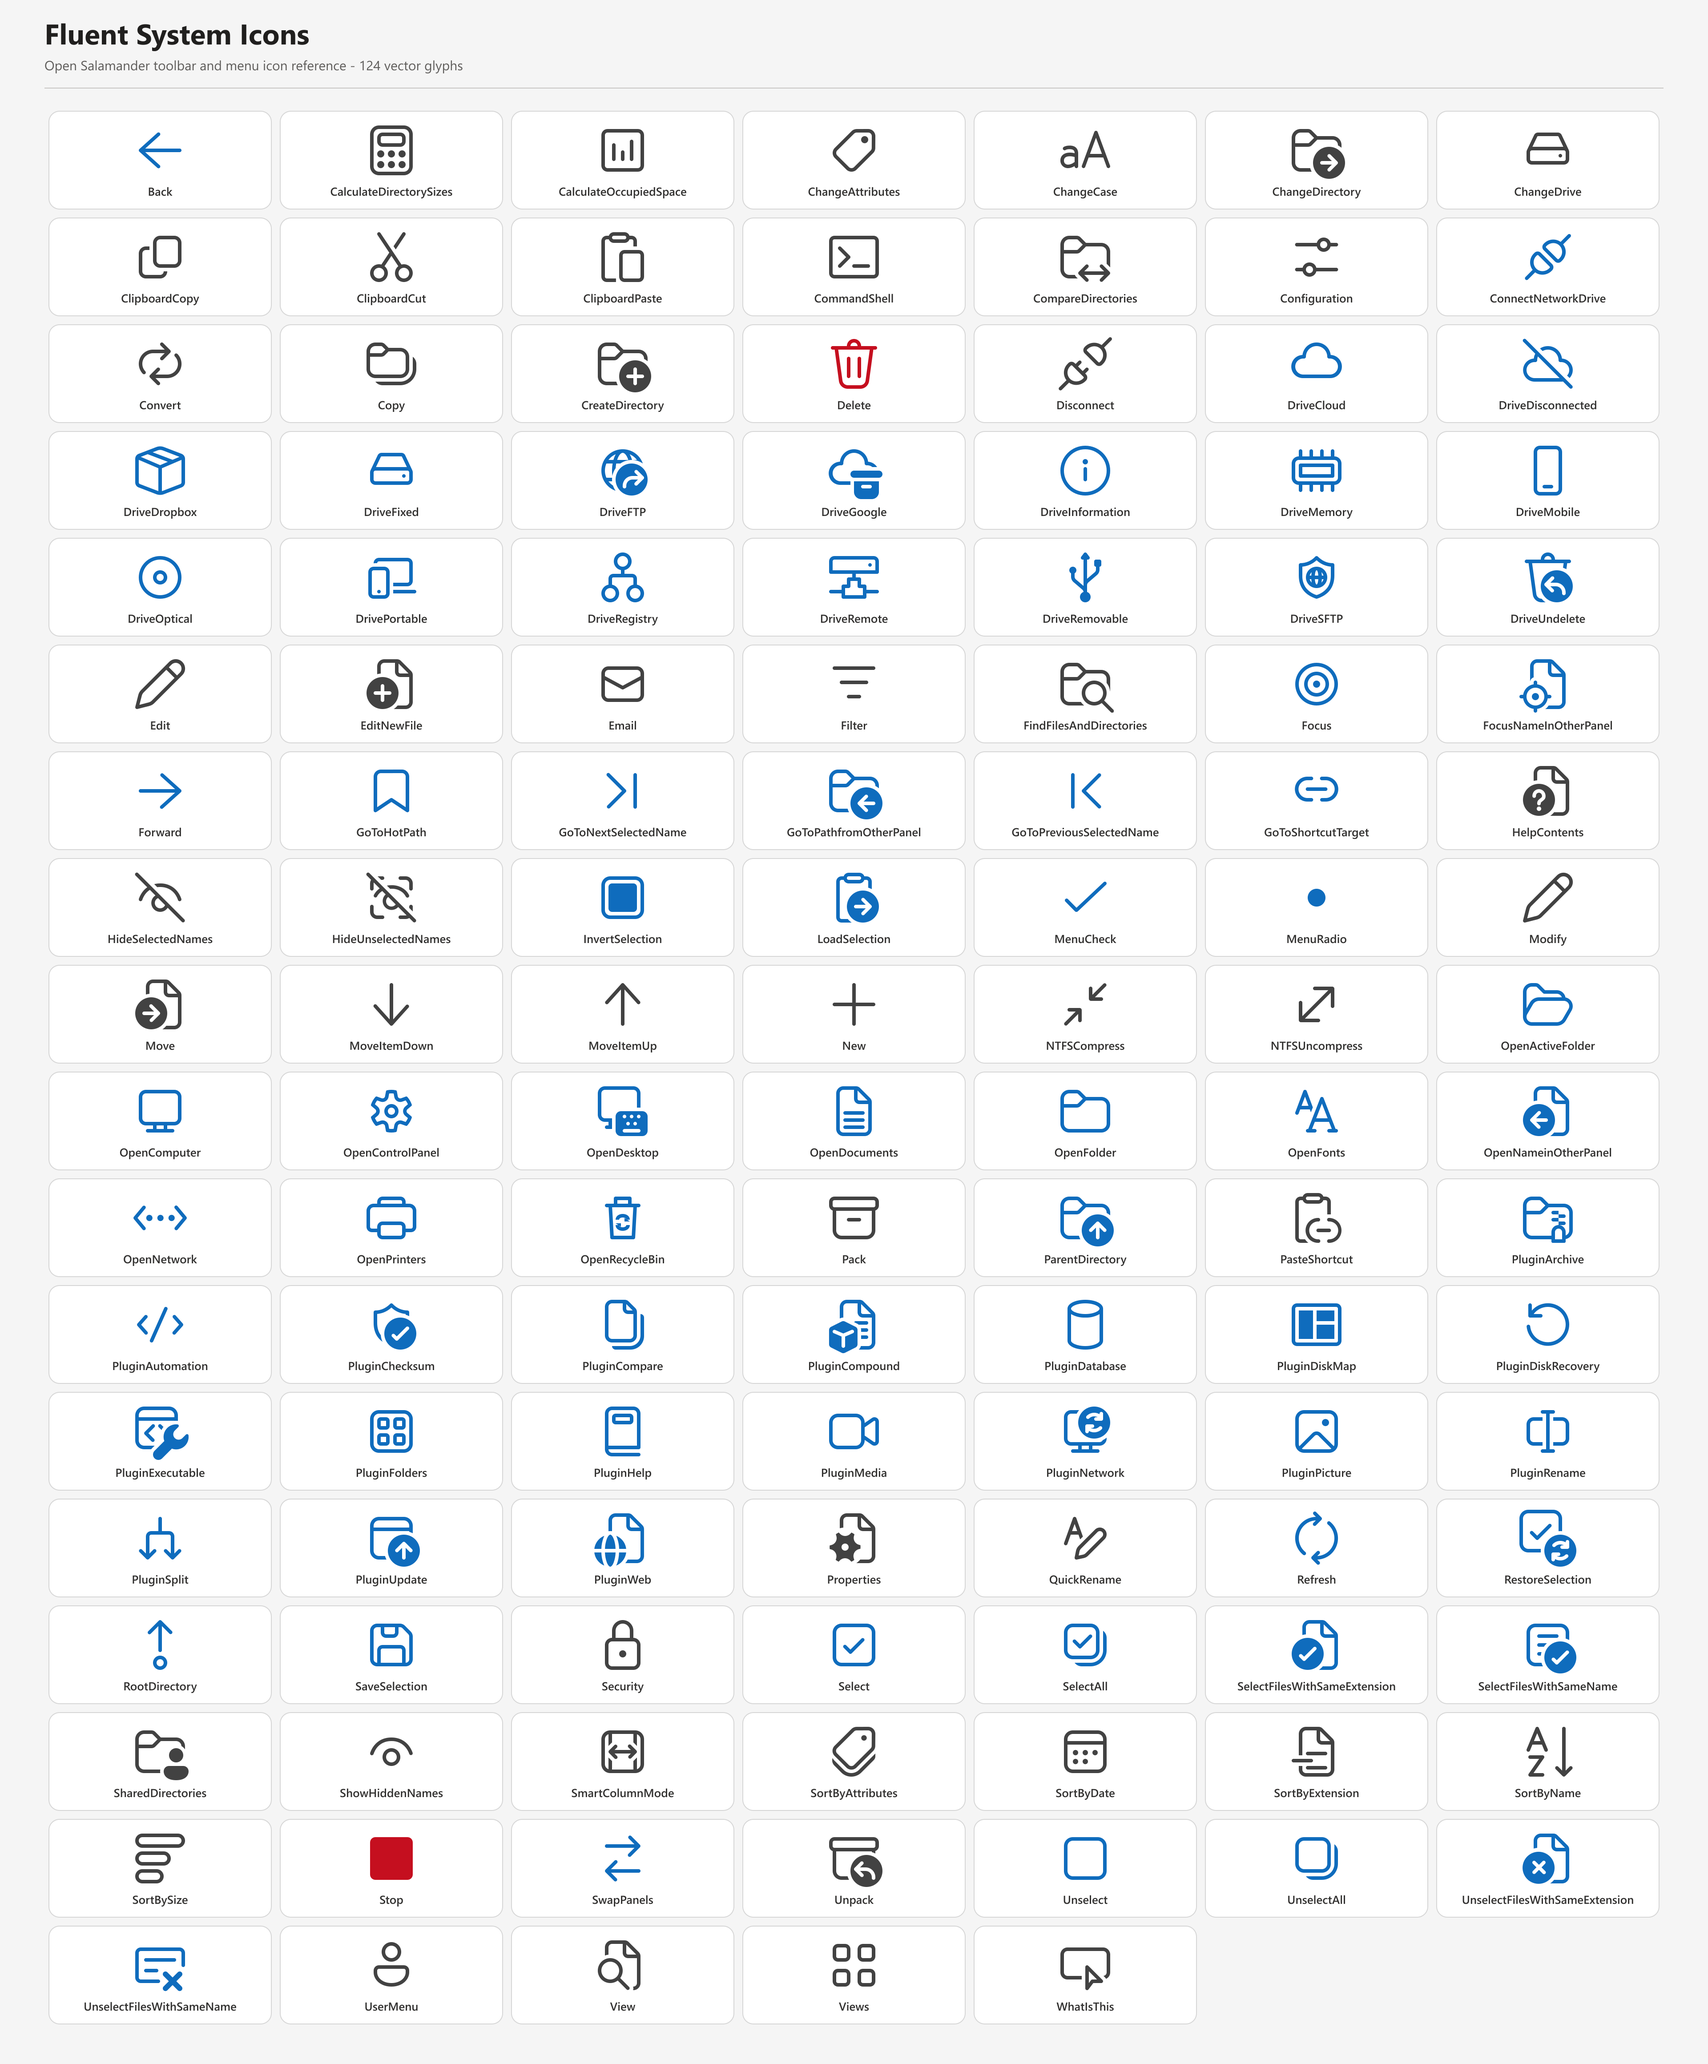
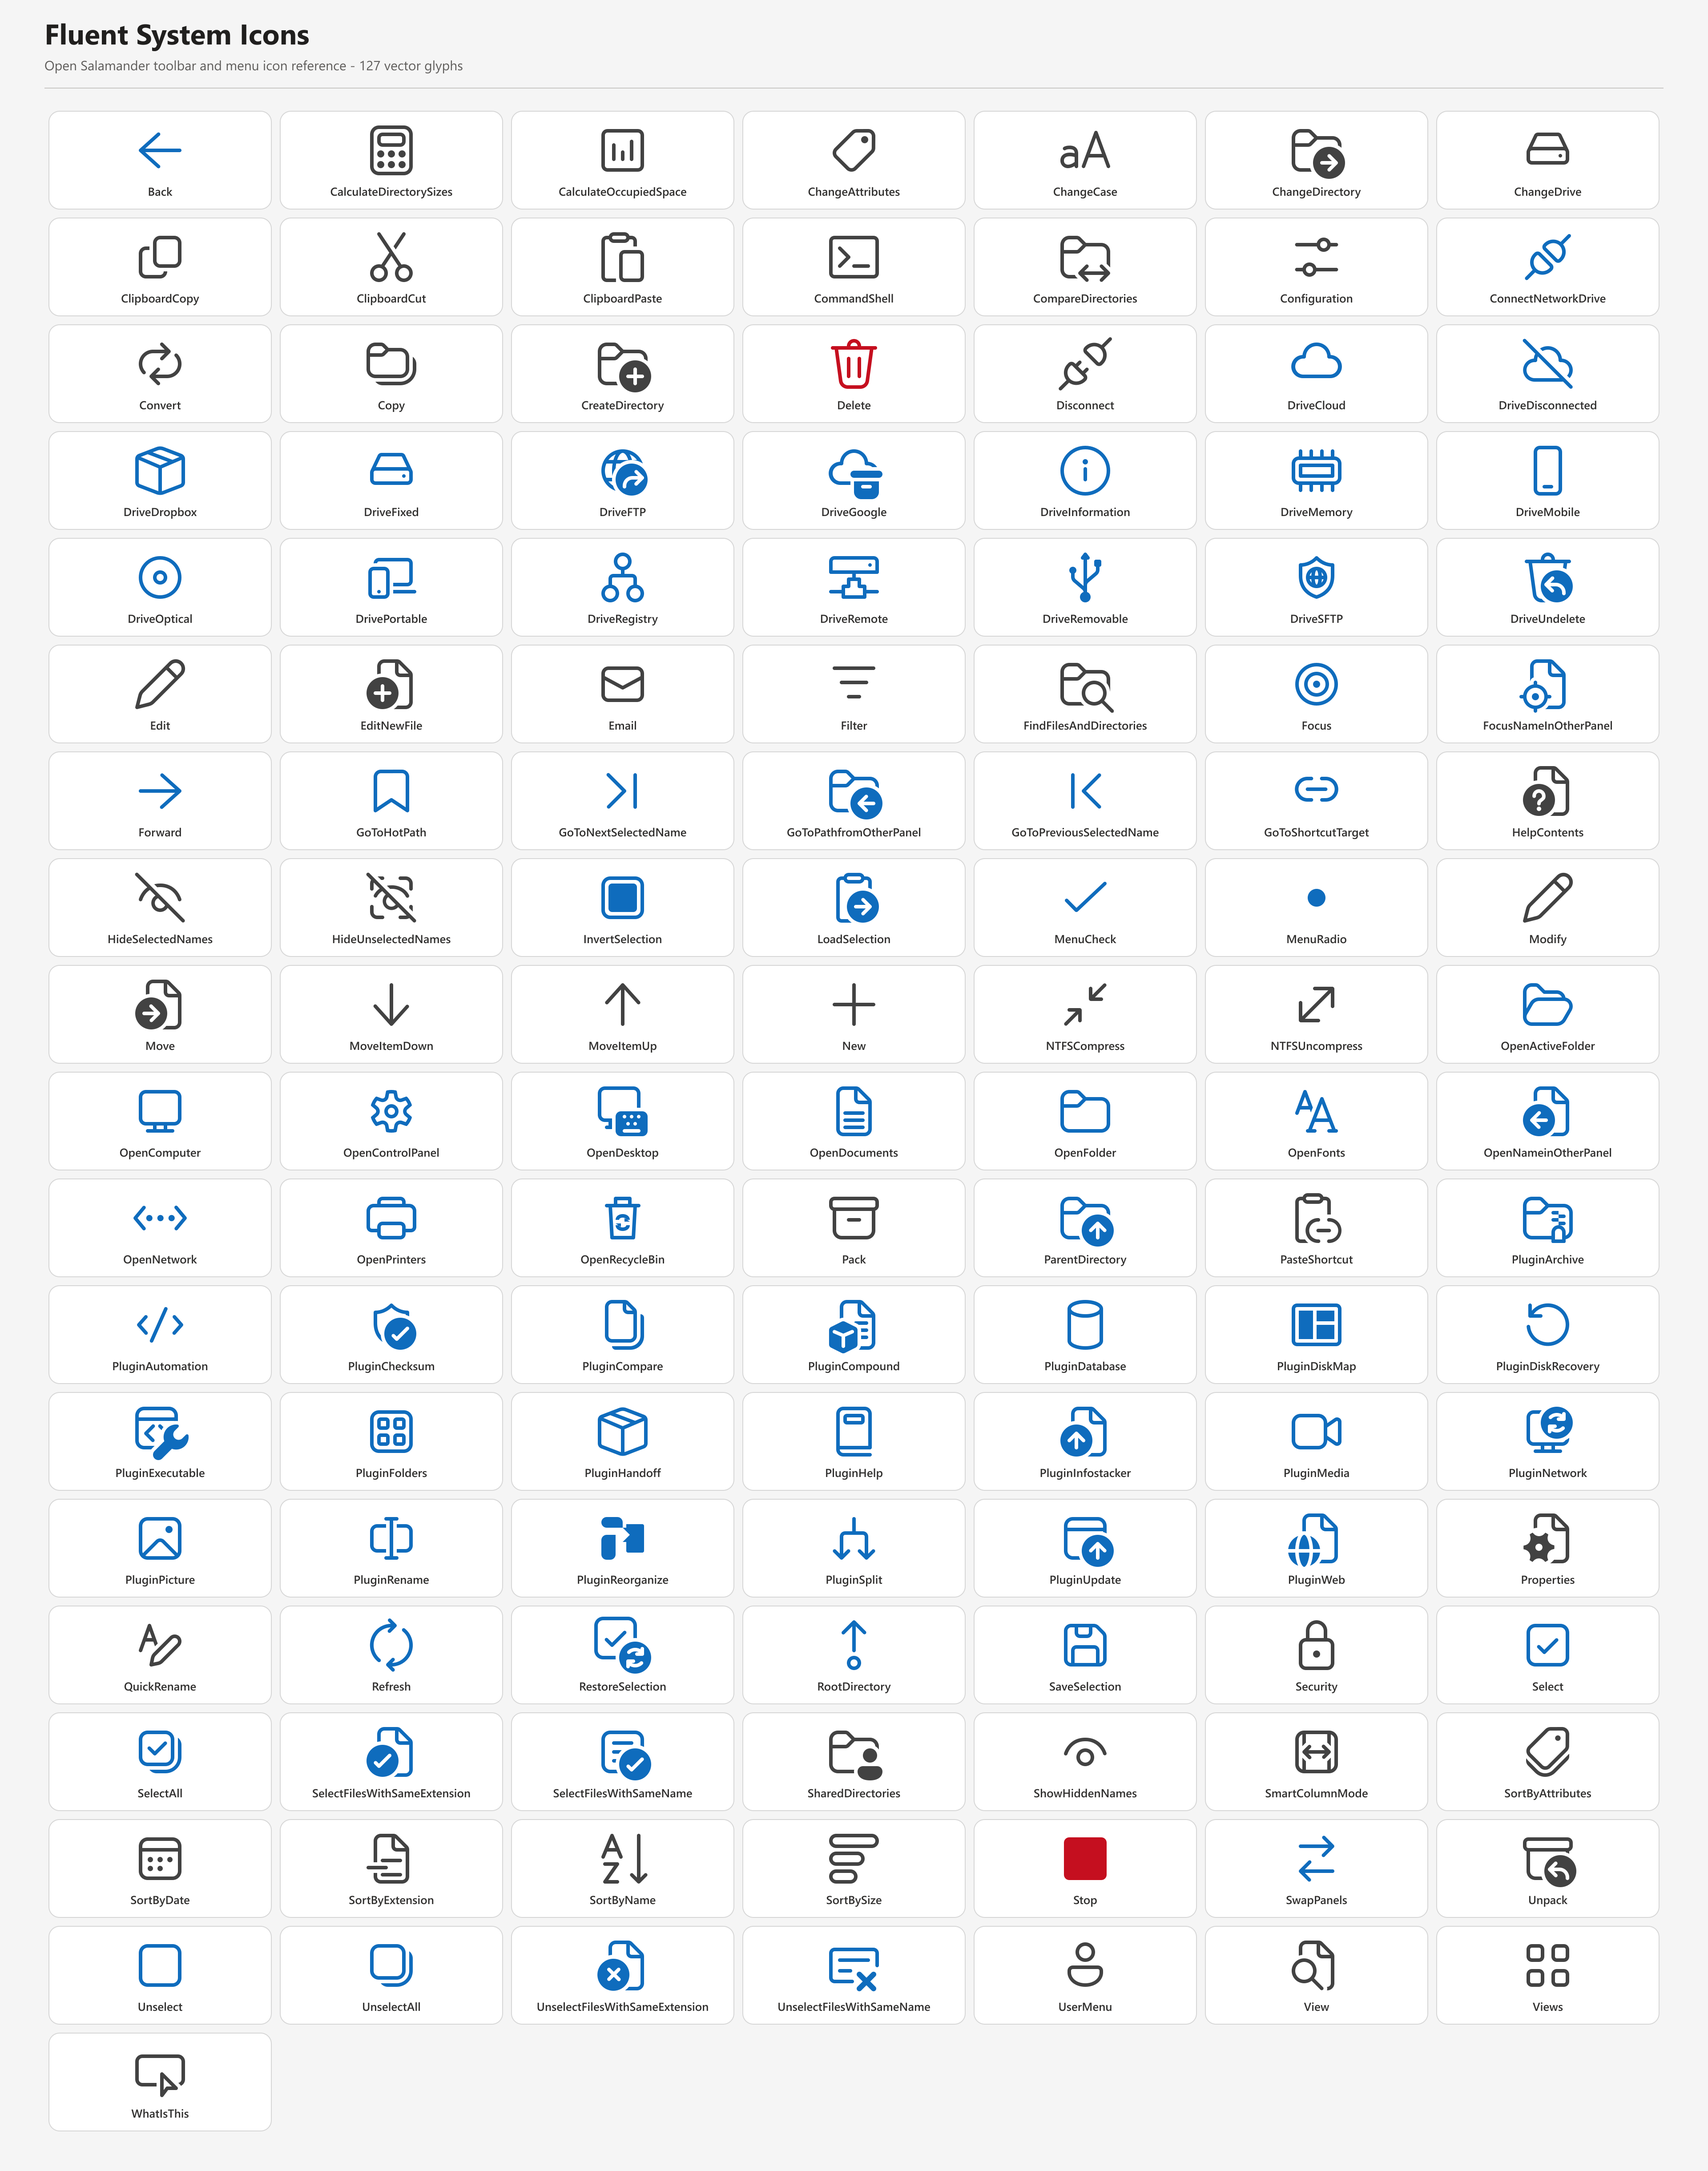
Restore Infostacker release gate coverage
The runtime toolbar included PluginInfostacker, but its reference SVG
and catalog entry were missing. This broke the reference completeness
contract and prevented the release gate from reaching packaging.

Add the missing reference from the existing Fluent document-upload
artwork and regenerate the catalog for all 127 toolbar icon families.
Preserve the production 16 px design grid, Fluent blue palette, and
Microsoft MIT attribution to match the rest of the interface.

Fix a second release-gate failure exposed by the complete test run:
a cancelled upload can reset the loopback connection before the test
server writes its held response. Accept only the expected reset or
abort during that response write, leaving request parsing and other
I/O failures visible.

Add a real TCP regression that resets a held upload connection and
requires the next upload to succeed. This verifies that cancellation
neither faults fixture teardown nor stops the server accepting work.

Validate with VS 2026 and toolset v145 using scripts/runtests.ps1 with
-ReleasePipeline, -BaseCommit HEAD^, -PlatformToolset v145,
-MaxBuildNodes 4, and -BuildNumber 0:

- All 29 release-parity checks pass; the x64 installer is produced.
- NUnit reports 234 passed, 0 failed, and 8 documented capability skips.
- Skips cover five ZIP cases, one help search, and two volume cases.
- Native rendering passes for 127 families and 3,048 size/DPI cases.
- The six focused icon and TCP reset checks pass.
- git diff --check passes.

diff --git a/tests/FileManager.UiTests/LoopbackInfostackerServerTests.cs b/tests/FileManager.UiTests/LoopbackInfostackerServerTests.cs
@@ -1,0 +1,54 @@
+using System.Net.Sockets;
+using System.Text;
+using FileManager.UiTests.Infrastructure;
+using NUnit.Framework;
+
+namespace FileManager.UiTests;
+
+public sealed class LoopbackInfostackerServerTests
+{
+    [Test]
+    public async Task Cancelled_held_response_does_not_stop_the_next_upload()
+    {
+        // Force the cancellation race with a TCP reset, then require another real upload to succeed.
+        using var timeout = new CancellationTokenSource(TimeSpan.FromSeconds(5));
+        using var server = new LoopbackInfostackerServer { HoldResponse = true };
+        var endpoint = new Uri(server.Url);
+        const string boundary = "infostacker-cancellation-probe";
+        var body = Encoding.ASCII.GetBytes($"--{boundary}\r\nContent-Disposition: form-data; name=\"markdown\"\r\n\r\nprobe\r\n--{boundary}--\r\n");
+        var headers = Encoding.ASCII.GetBytes($"POST /sharing/uploadmarkdownwithfiles HTTP/1.1\r\nHost: 127.0.0.1\r\nContent-Type: multipart/form-data; boundary={boundary}\r\nContent-Length: {body.Length}\r\nConnection: close\r\n\r\n");
+
+        using (var cancelled = await Upload())
+        {
+            await server.Received.Task.WaitAsync(timeout.Token);
+            cancelled.Client.LingerState = new LingerOption(true, 0);
+        }
+        server.Release.TrySetResult();
+
+        using var next = await Upload();
+        using var reader = new StreamReader(next.GetStream(), Encoding.UTF8);
+        var response = await reader.ReadToEndAsync(timeout.Token);
+        Assert.Multiple(() =>
+        {
+            Assert.That(response, Does.StartWith("HTTP/1.1 200"));
+            Assert.That(response, Does.EndWith(server.Response));
+            Assert.That(server.Requests, Has.Count.EqualTo(2));
+        });
+
+        async Task<TcpClient> Upload()
+        {
+            var client = new TcpClient();
+            try
+            {
+                await client.ConnectAsync(endpoint.Host, endpoint.Port, timeout.Token);
+                await client.GetStream().WriteAsync(headers.Concat(body).ToArray(), timeout.Token);
+                return client;
+            }
+            catch
+            {
+                client.Dispose();
+                throw;
+            }
+        }
+    }
+}

diff --git a/tests/FileManager.UiTests/Infrastructure/LoopbackInfostackerServer.cs b/tests/FileManager.UiTests/Infrastructure/LoopbackInfostackerServer.cs
@@ -68,8 +68,14 @@ internal sealed class LoopbackInfostackerServer : IDisposable
                 var response = Encoding.UTF8.GetBytes(Response);
                 var responseHeaders = Encoding.ASCII.GetBytes($"HTTP/1.1 {Status} Fixture\r\nContent-Type: application/json\r\nContent-Length: {response.Length}\r\nConnection: close\r\n\r\n");
                 // Fragment JSON to exercise the production response accumulation path.
-                await stream.WriteAsync(responseHeaders, stop.Token);
-                foreach (var chunk in response.Chunk(3)) await stream.WriteAsync(chunk, stop.Token);
+                try
+                {
+                    await stream.WriteAsync(responseHeaders, stop.Token);
+                    foreach (var chunk in response.Chunk(3)) await stream.WriteAsync(chunk, stop.Token);
+                }
+                // A cancelled client may reset its held response; keep request parsing and other I/O failures visible.
+                catch (IOException error) when (HoldResponse && error.InnerException is SocketException
+                    { SocketErrorCode: SocketError.ConnectionReset or SocketError.ConnectionAborted }) { }
             }
         }
         catch (OperationCanceledException) when (stop.IsCancellationRequested) { }
